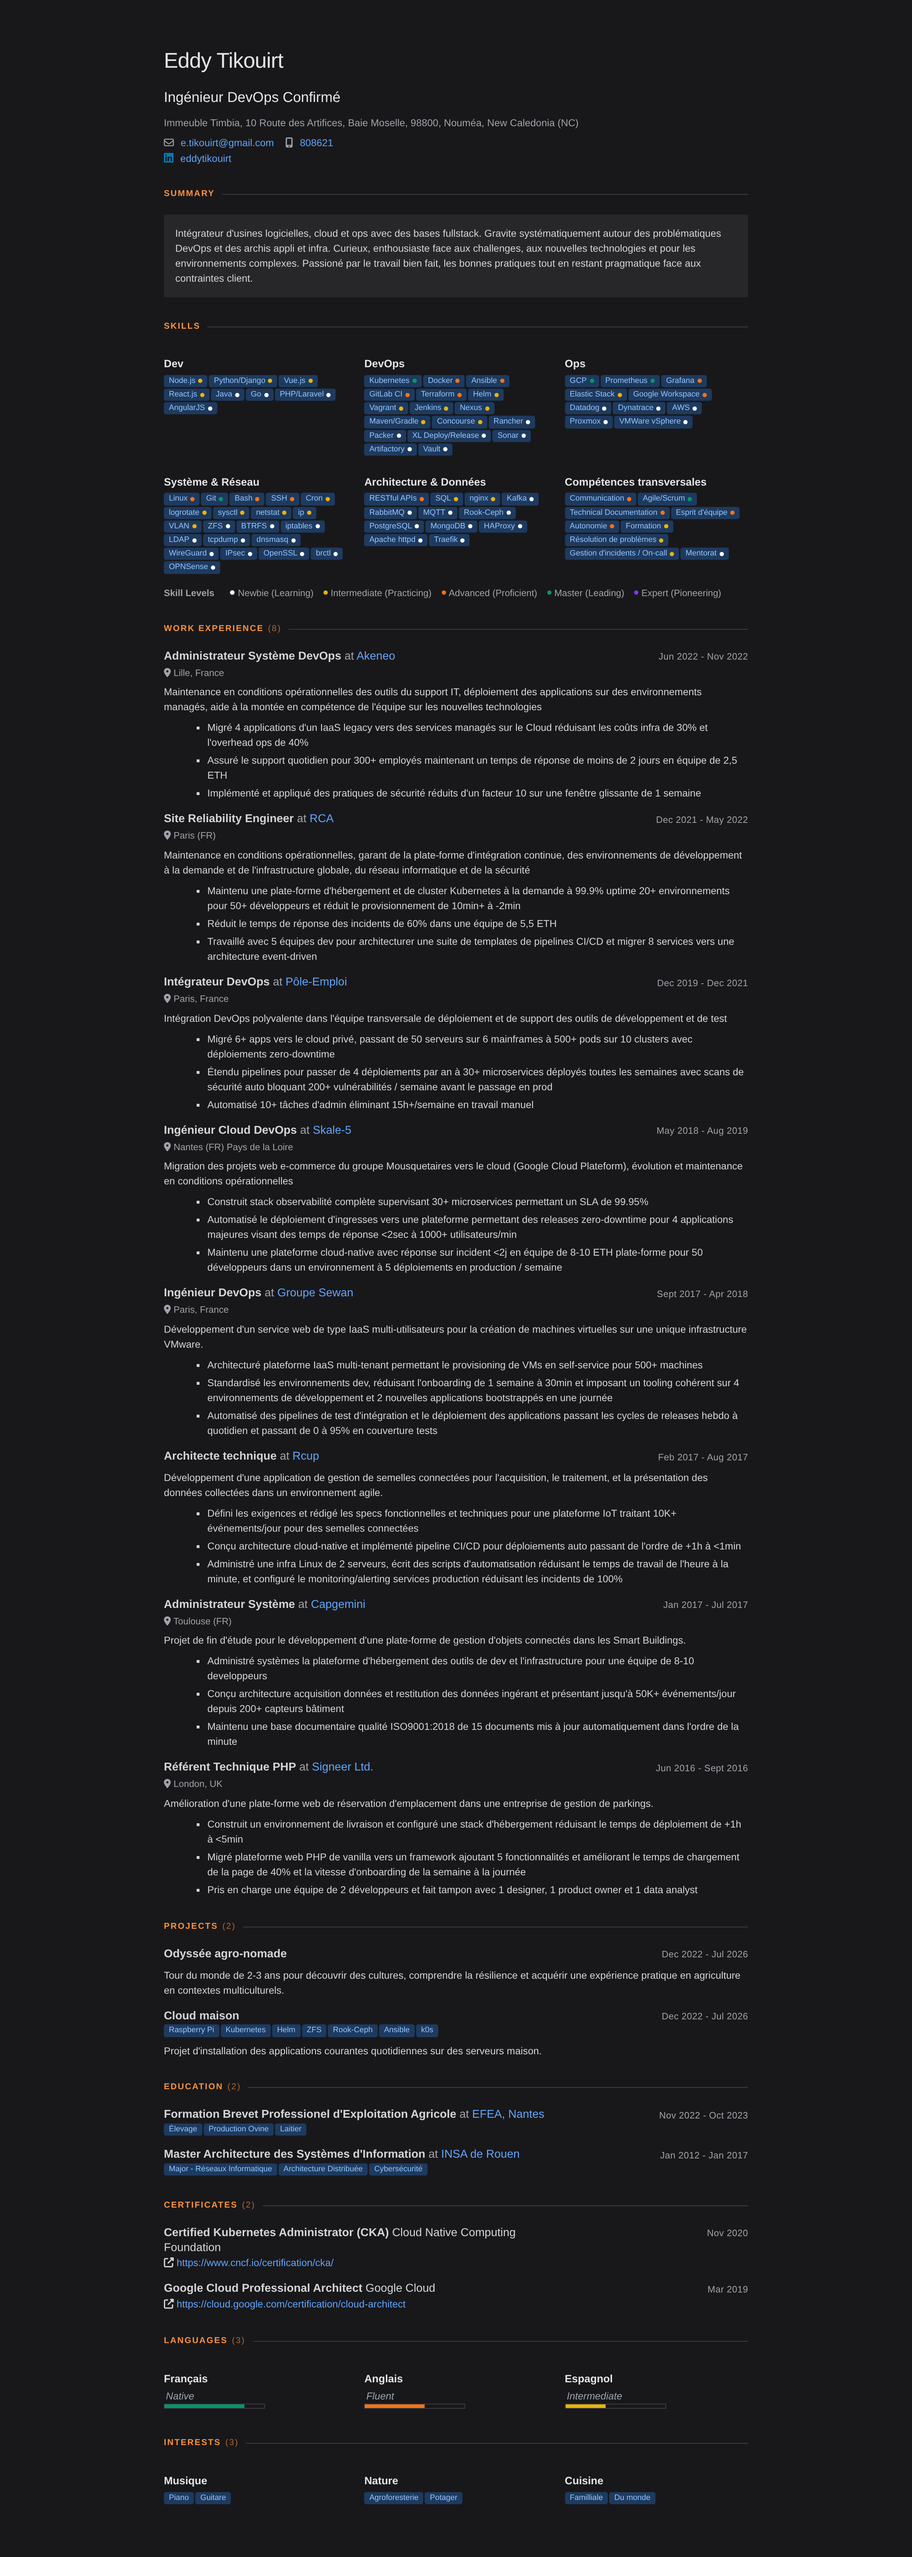
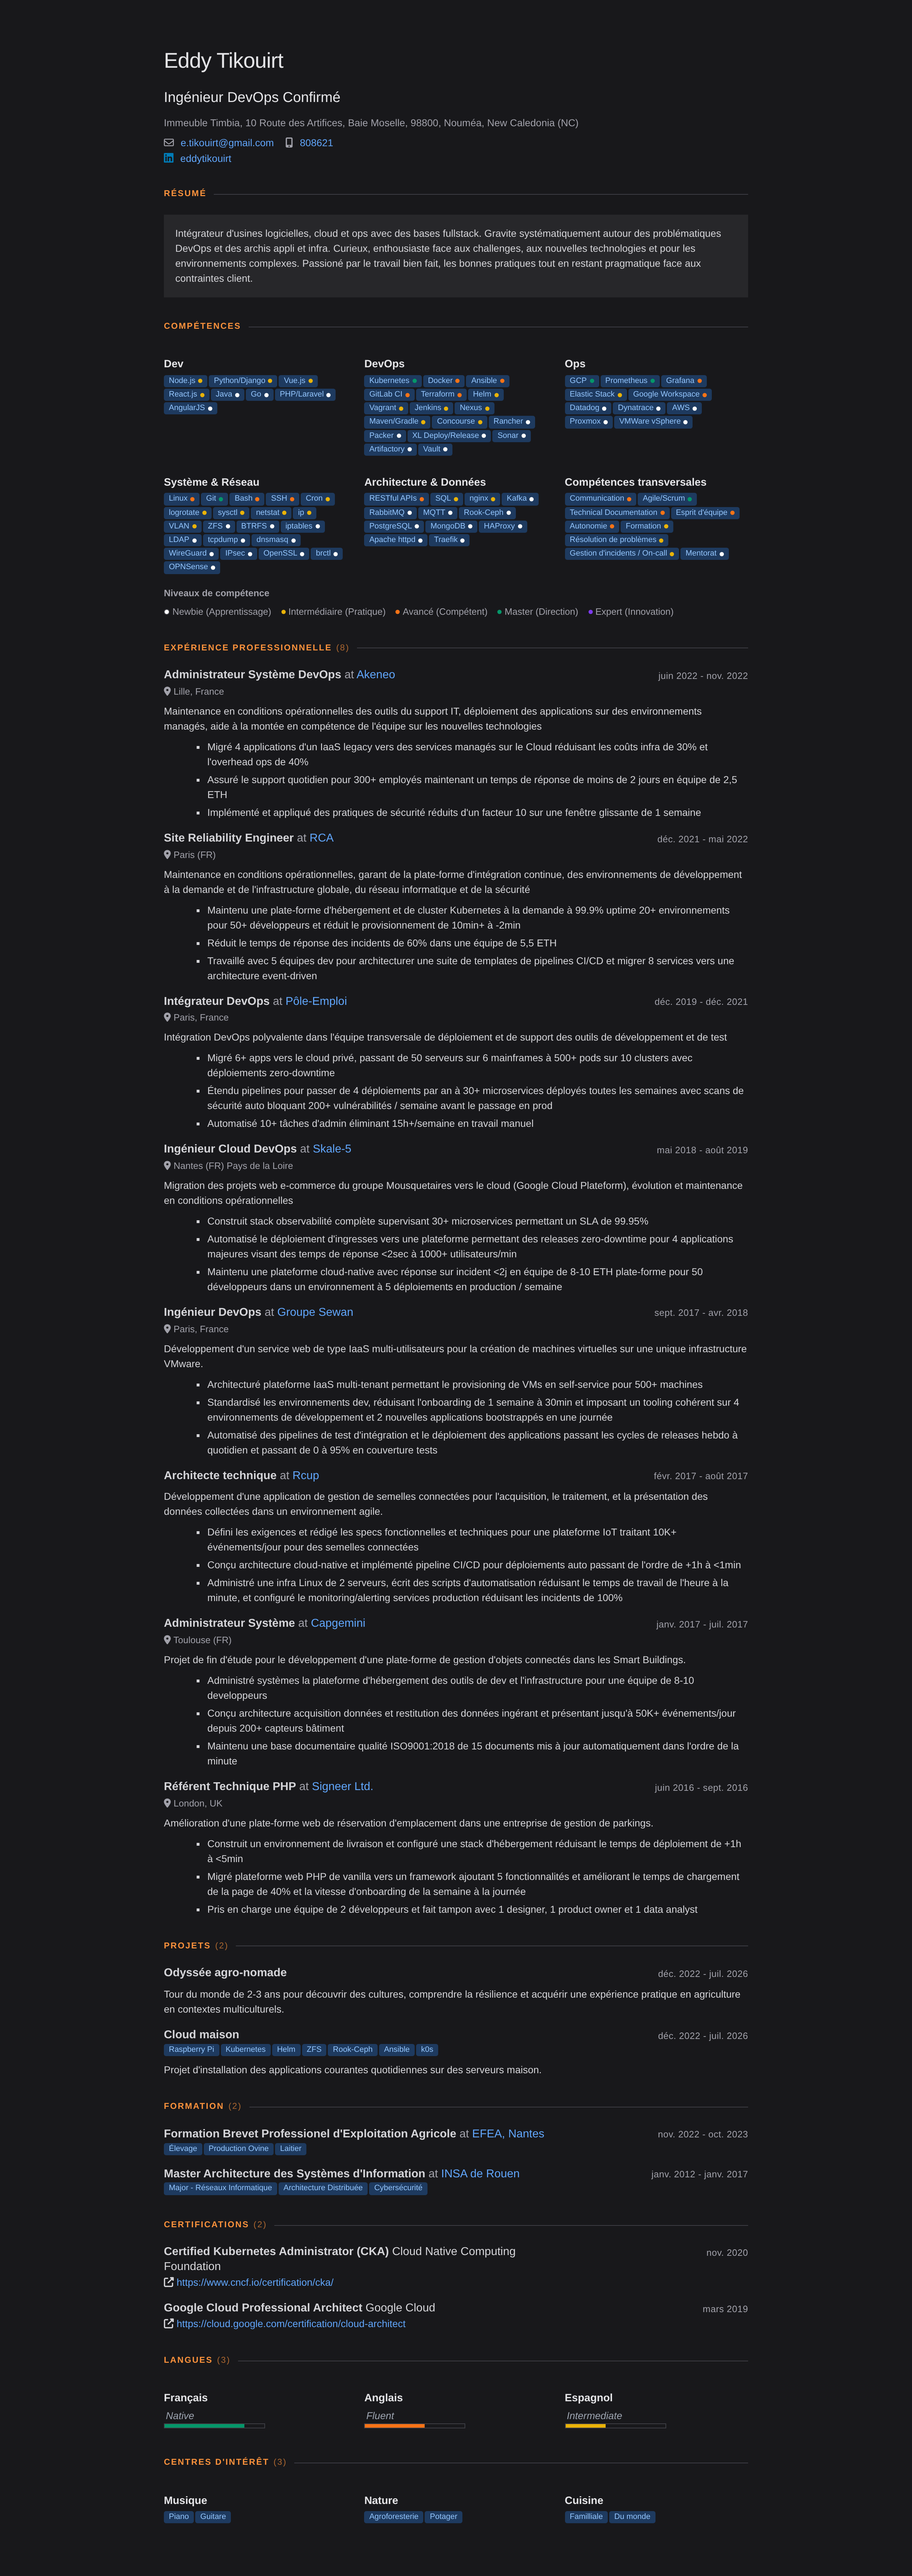
fix: honor resume.meta.language when no render options.language given

diff --git a/dist/index.js b/dist/index.js
@@ -124,7 +124,7 @@ https://svelte.dev/e/unresolved_hydratable`,bold,normal):console.warn("https://s
   }`};function Resume($$renderer,$$props){$$renderer.global.css.add($$css15),$$renderer.component($$renderer2=>{let{resume,language:language2="en-gb"}=$$props,defaultOrder=["basics","skills","work","projects","volunteer","education","awards","certificates","publications","languages","interests","references"],customOrder=resume.meta?.theme?.sectionOrder,sectionOrder=Array.isArray(customOrder)&&customOrder.length>0?customOrder.filter(s=>defaultOrder.includes(s)):defaultOrder;$$renderer2.push('<a class="skip-to-content" href="#resume">Skip to content</a> <main id="resume" class="resume svelte-rssu9l"><!--[-->');let each_array=ensure_array_like(sectionOrder);for(let $$index=0,$$length=each_array.length;$$index<$$length;$$index++){let section=each_array[$$index];section==="basics"?($$renderer2.push("<!--[0-->"),Basics($$renderer2,{basics:resume.basics})):section==="skills"?($$renderer2.push("<!--[1-->"),Skills($$renderer2,{skills:resume.skills})):section==="work"?($$renderer2.push("<!--[2-->"),Work($$renderer2,{work:resume.work,language:language2})):section==="projects"?($$renderer2.push("<!--[3-->"),Projects($$renderer2,{projects:resume.projects,language:language2})):section==="volunteer"?($$renderer2.push("<!--[4-->"),Volunteer($$renderer2,{volunteer:resume.volunteer,language:language2})):section==="education"?($$renderer2.push("<!--[5-->"),Education($$renderer2,{education:resume.education,language:language2})):section==="awards"?($$renderer2.push("<!--[6-->"),Awards($$renderer2,{awards:resume.awards,language:language2})):section==="certificates"?($$renderer2.push("<!--[7-->"),Certificates($$renderer2,{certificates:resume.certificates,language:language2})):section==="publications"?($$renderer2.push("<!--[8-->"),Publications($$renderer2,{publications:resume.publications,language:language2})):section==="languages"?($$renderer2.push("<!--[9-->"),Languages($$renderer2,{languages:resume.languages})):section==="interests"?($$renderer2.push("<!--[10-->"),Interests($$renderer2,{interests:resume.interests})):section==="references"?($$renderer2.push("<!--[11-->"),References($$renderer2,{references:resume.references})):$$renderer2.push("<!--[-1-->"),$$renderer2.push("<!--]-->")}$$renderer2.push("<!--]--></main>")})}var import_fs=require("fs"),import_path=require("path"),import_url=require("url"),language="en-gb";function changeLanguage(lang){let i18nLang=lang;lang==="en-gb"&&(i18nLang="en"),setI18nLanguage(i18nLang),language=lang}function buildThemeOverrides(meta){if(!meta||!meta.theme)return"";let theme=meta.theme,mapping={primaryColor:"--color-accent",textColor:"--color-text",textSecondaryColor:"--color-text-secondary",headingColor:"--color-heading",linkColor:"--color-link",backgroundColor:"--color-background",backgroundAltColor:"--color-background-alt",borderColor:"--color-border",keywordTextColor:"--color-keyword-text",keywordBgColor:"--color-keyword-bg",fontFamily:"--font-family"},overrides=[];for(let[key,cssVar]of Object.entries(mapping))theme[key]&&overrides.push("  "+cssVar+": "+theme[key]+";");return overrides.length===0?"":`:root {
 `+overrides.join(`
 `)+`
-}`}function render2(resume,options){options&&options.language&&changeLanguage(options.language);let stylePath=(0,import_path.join)(__dirname,"..","styles","global.css"),css=(0,import_fs.readFileSync)(stylePath,"utf-8"),result=render(Resume,{props:{resume,language}}),body=result.body,head=result.head||"";body=body.replace(/<!--\[-->/g,"").replace(/<!--\]-->/g,"");let name=resume.basics?.name||"",themeOverrides=buildThemeOverrides(resume.meta);return`<!doctype html>
+}`}function render2(resume,options){let lang=options&&options.language||resume.meta?.language;lang&&changeLanguage(lang);let stylePath=(0,import_path.join)(__dirname,"..","styles","global.css"),css=(0,import_fs.readFileSync)(stylePath,"utf-8"),result=render(Resume,{props:{resume,language}}),body=result.body,head=result.head||"";body=body.replace(/<!--\[-->/g,"").replace(/<!--\]-->/g,"");let name=resume.basics?.name||"",themeOverrides=buildThemeOverrides(resume.meta);return`<!doctype html>
 <html lang="__LANG__">
   <head>
     <meta charset="utf-8">

diff --git a/build.js b/build.js
@@ -165,8 +165,9 @@ function buildThemeOverrides(meta) {
 }
 
 export function render(resume, options) {
-  if (options && options.language) {
-    changeLanguage(options.language);
+  const lang = (options && options.language) || resume.meta?.language;
+  if (lang) {
+    changeLanguage(lang);
   }
   const stylePath = join(__dirname, '..', 'styles', 'global.css');
   const css = readFileSync(stylePath, 'utf-8');
